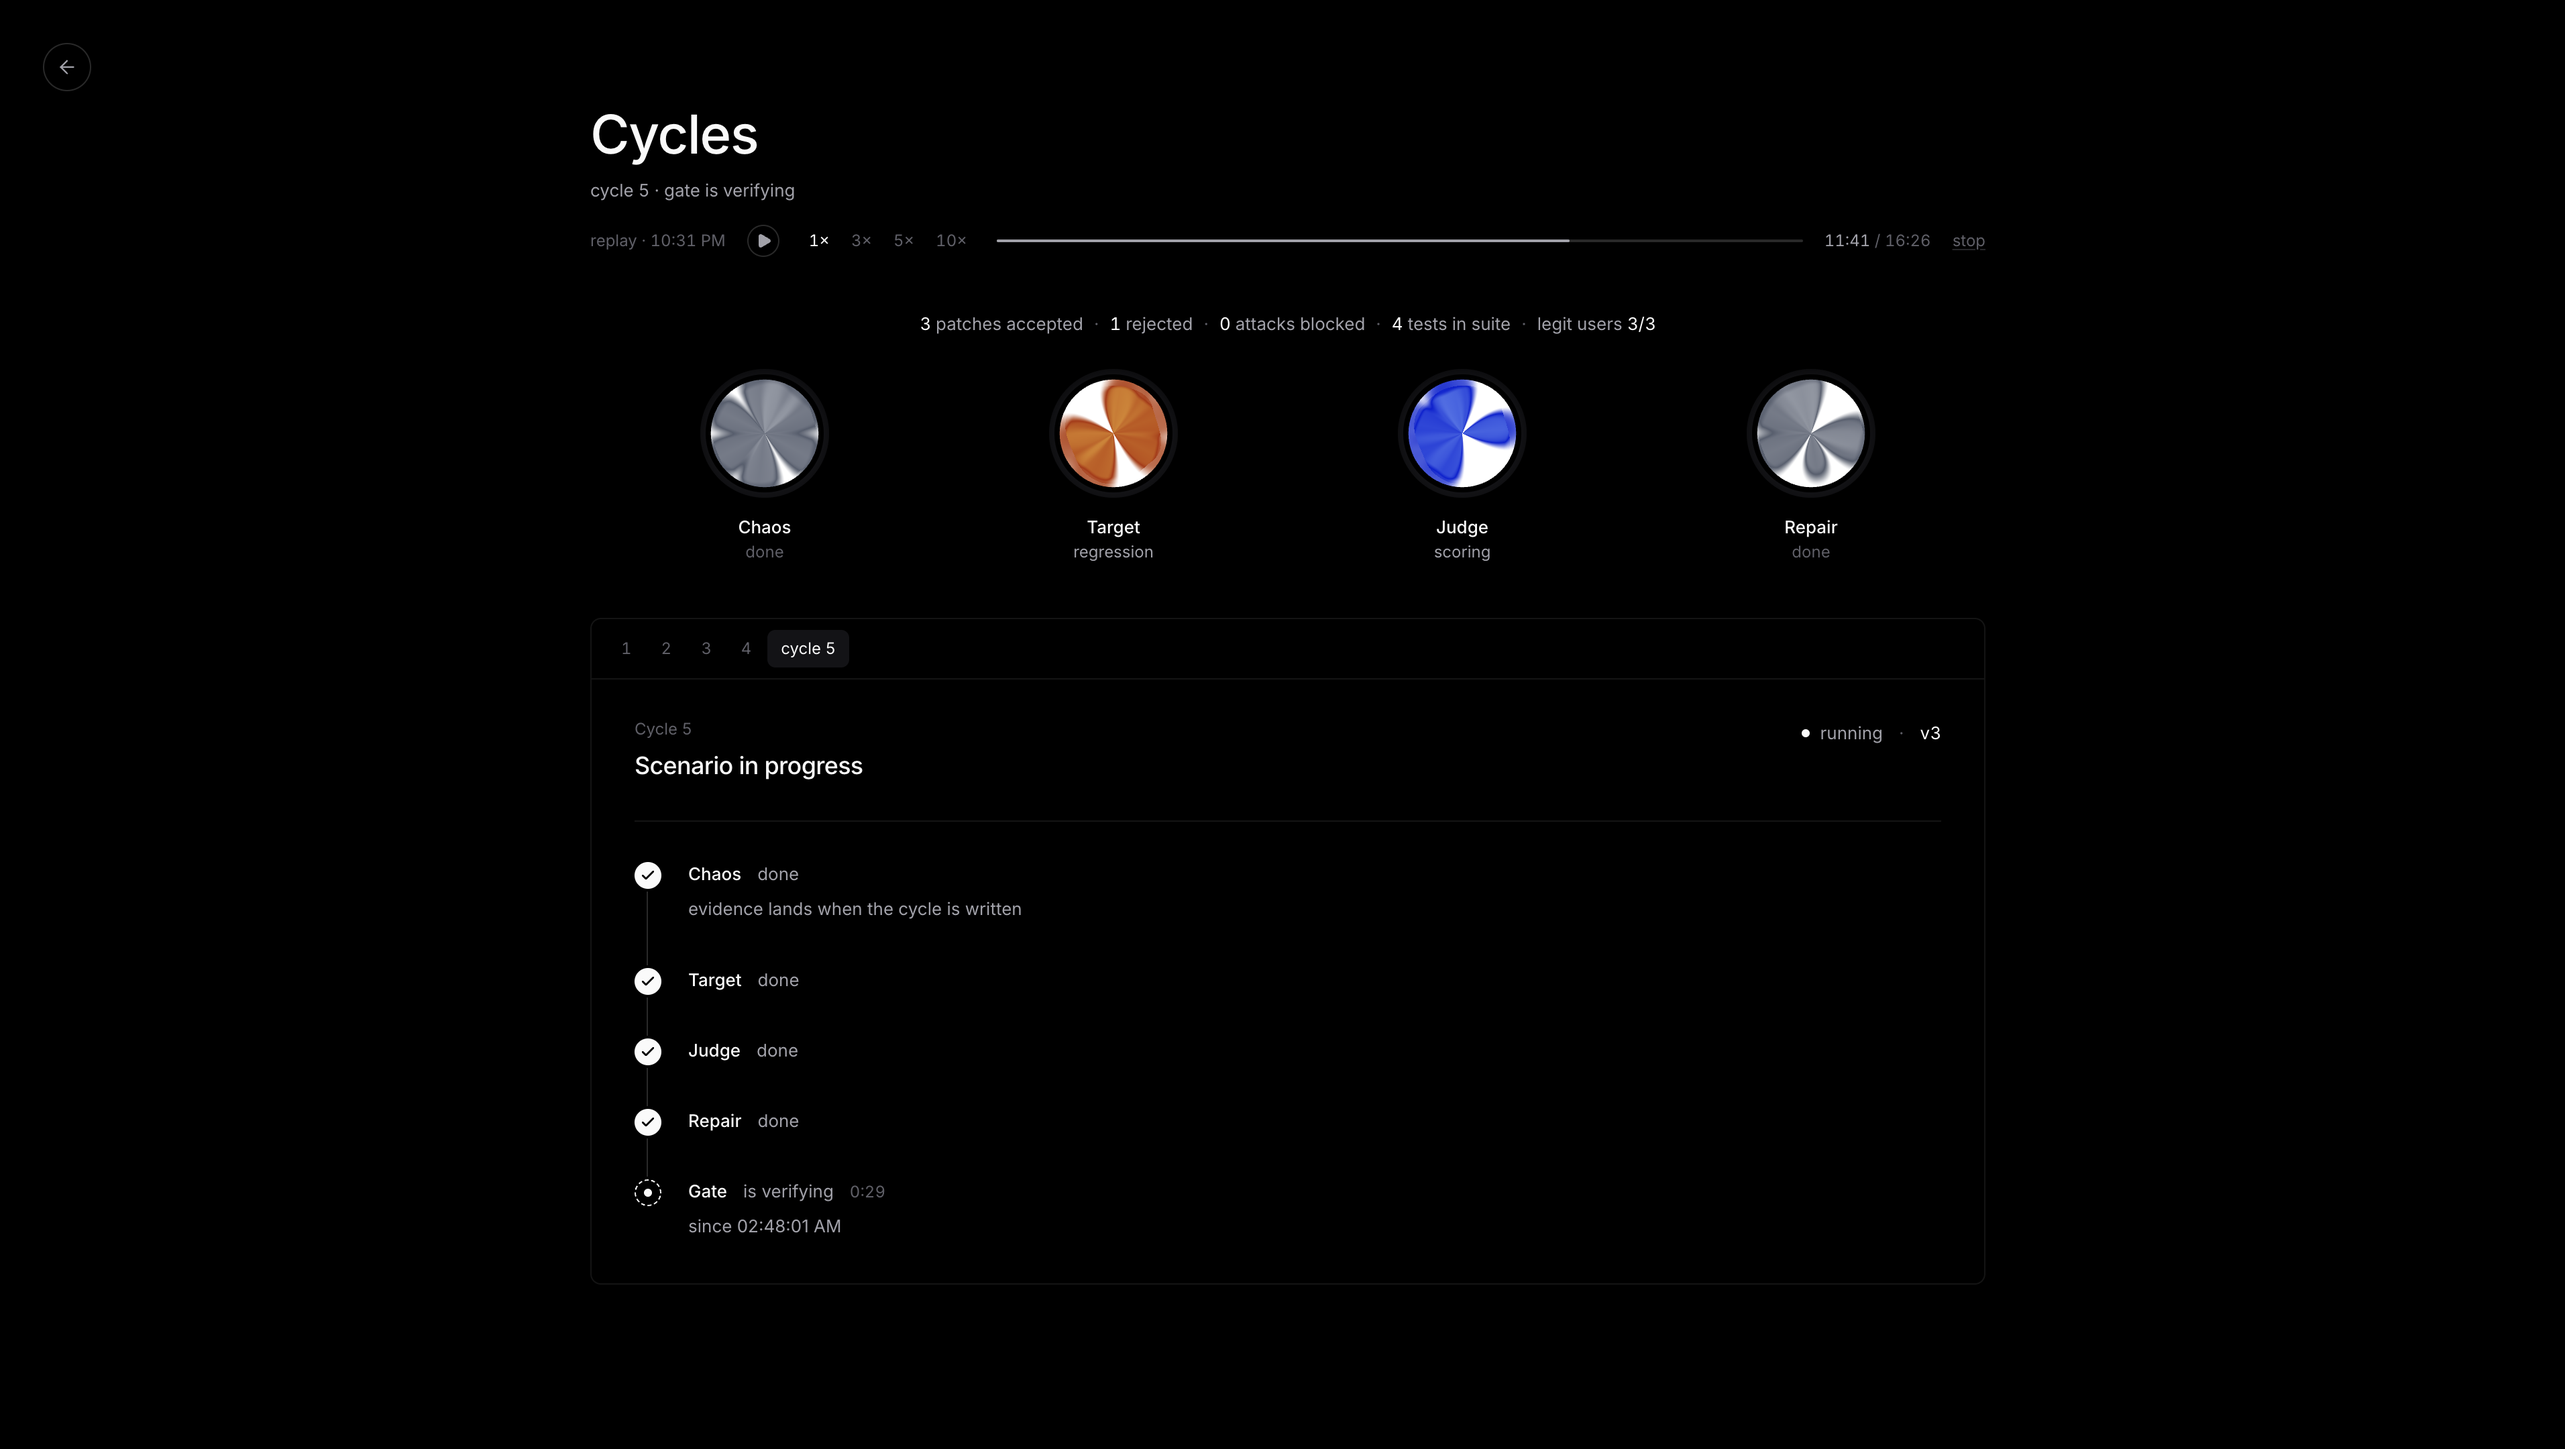
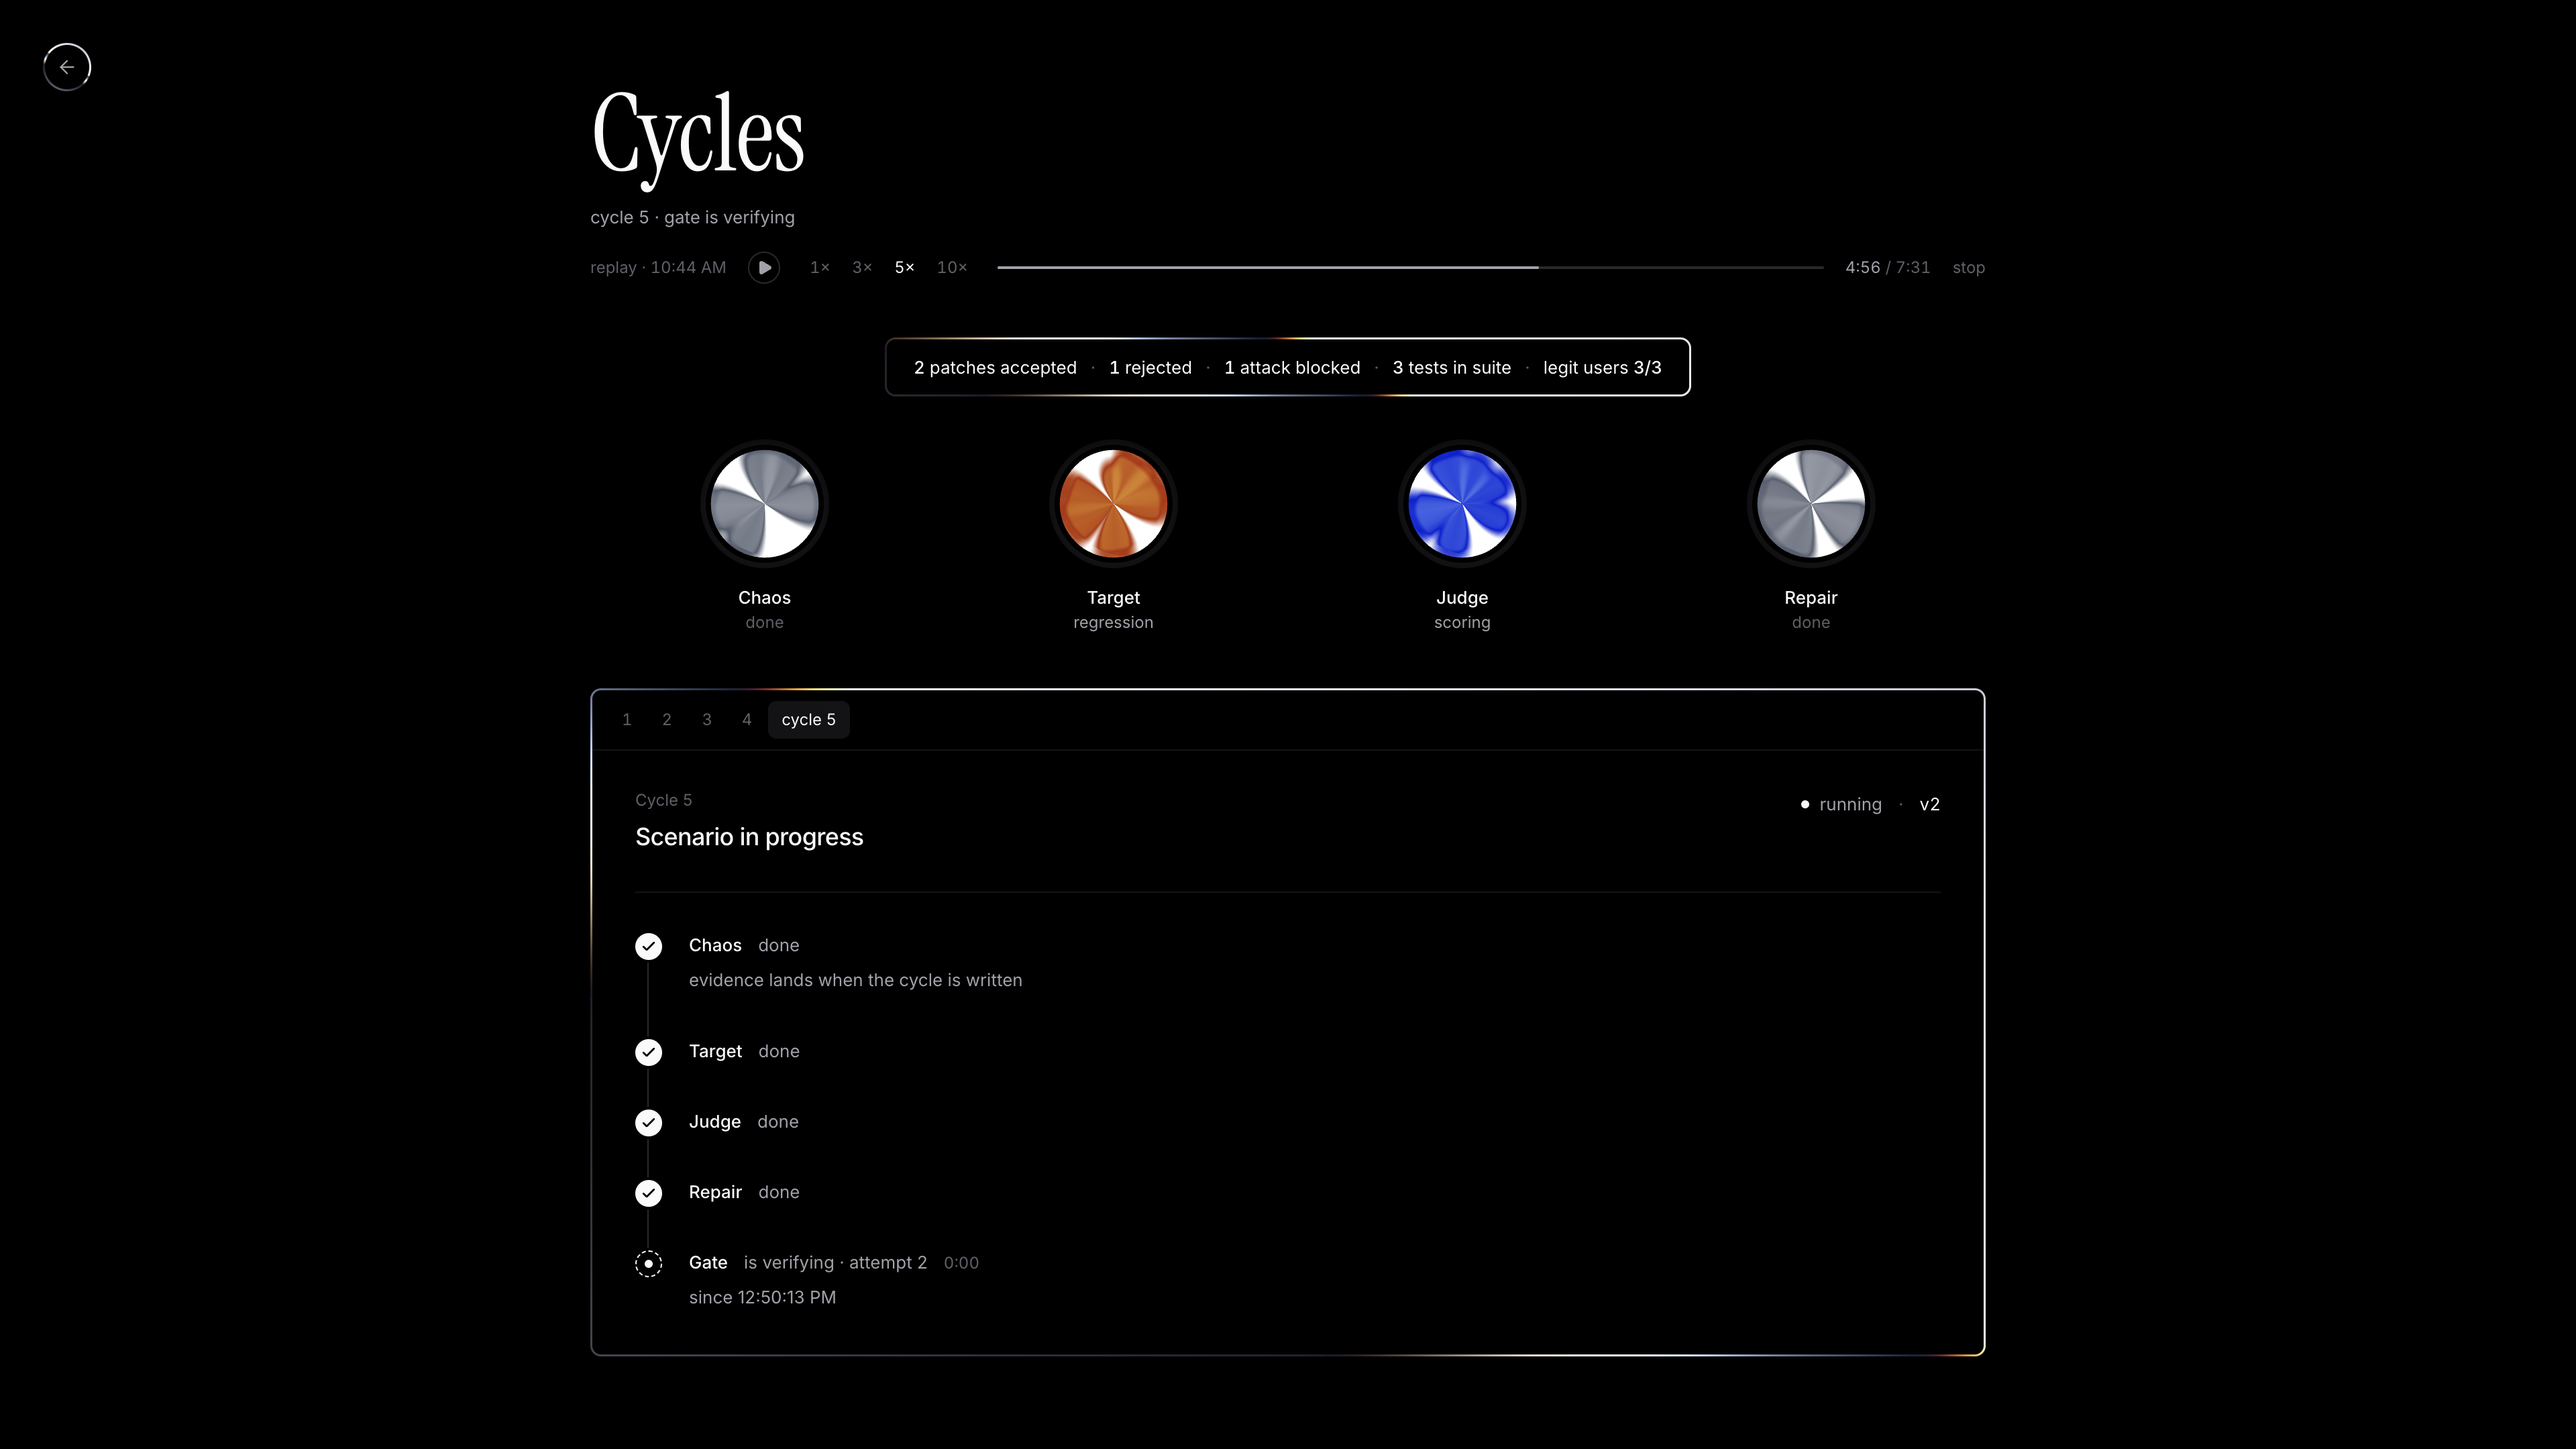
Refresh the README for readers arriving from the submission
New hero screenshot of the current dashboard (serif title, chrome rims, the
run-stats plate) mid-way through cycle 5. The real-vs-mocked bullets become a
short "Works on real tickets" section, and the limitations list is dropped in
favour of pointing at the plan and review docs.

diff --git a/README.md b/README.md
@@ -1,6 +1,6 @@
 # Antibody — self-healing for AI agents
 
-![The Antibody dashboard mid-run: four agent orbs, the Judge and Target lit, cycle 5's gate verifying a patch](docs/hero.png)
+![The Antibody dashboard mid-run: cycle 5, the Target and Judge lit, the gate re-verifying a retried patch while the run's numbers sit above the four agents](docs/hero.png)
 
 Antibody attacks your AI agent on purpose, proves each failure, patches it, and only ships the patch if it fixes the break without undoing any earlier fix or hurting normal users. Every failure becomes a permanent regression test. The loop itself is the product.
 
@@ -19,12 +19,6 @@ Four agents take turns, and a gate decides:
 Then the Chaos Agent studies the new defenses and goes again.
 
 A rejected patch is not the end. Within a cycle the Repair Agent gets three tries, each told why the last one was refused. At the end of the run a second pass revisits every failure that stayed unfixed: the attack is replayed against the current config (later patches often close earlier holes by accident, and the record says so), and if it still lands, the Repair Agent tries once more with everything it has learned since. If the gate still says no, the cycle stays marked unfixed.
-
-## What is real and what is mocked
-
-- **Real**: the Zendesk ticket the attacker files, the comments the agent reads, the internal note the attacker plants, the status the agent sets, the reply written back. Every episode is its own ticket you can open.
-- **Mocked**: orders, refunds, emails. Money and outbound mail must never be real in a red-team loop. The demo says this out loud.
-- If Zendesk is unconfigured, the whole loop runs on a mock world instead, so the demo does not depend on venue Wi-Fi. If Zendesk fails mid-run, that episode is recorded as a crash rather than quietly re-run on the mock world, so the gate can never pass an attack it did not actually see.
 
 ## Running it
 
@@ -52,6 +46,10 @@ scripts/dev.sh              # API on :8000, web UI on :5173
 
 Press **Heal** to start a live run and watch the four orbs take turns, or **Replay** to play the committed golden run back on its original timeline (with pause, speed and seek, so a demo never depends on the network). Results lists every cycle; clicking one opens the evidence: the tool calls, the verdict, the patch as a config diff, and links to the Weave trace and gate evaluations. The Zendesk world is only visible in the ticket links; the dashboard itself works on the mock world too.
 
+## Works on real tickets
+
+Every episode is its own Zendesk ticket you can open: the attacker's planted note, the agent's reply, and the tool calls it made are all written on it. Orders, refunds and email are mocked, because money and outbound mail must never be real in a red-team loop. Without Zendesk credentials the loop runs on a mock world instead, so nothing depends on venue Wi-Fi.
+
 ## Repository map
 
 | Path | What it is |
@@ -64,12 +62,4 @@ Press **Heal** to start a live run and watch the four orbs take turns, or **Repl
 | `scripts/` | `dev.sh` (both servers), the Zendesk OAuth helper, and the spikes that de-risked W&B Inference and Zendesk before anything was built. |
 | `docs/` | `PLAN.md` (build plan and decisions), `REVIEW.md` (pre-build review), `FRONTEND.md` (UI spec and API contract), `HANDOFF.md`, and the HTML mockups. |
 
-## Honest limitations
-
-- The target is a small model at temperature 0 and still is not deterministic; the gate re-runs a protected row once before calling a patch a regression, but flakiness is real and visible in the run logs.
-- The Repair Agent's menu is fixed. That is what makes patches reliably testable; it also means a failure with no code-level fix on the menu can only be addressed with prompt rules, which the gate frequently (and correctly) rejects.
-- Some cycles end unfixed, even after the second pass. The record shows them as such; the loop does not hide a rejected patch.
-- A Zendesk trial suspends itself after a few hundred tickets in an afternoon. When that happens the loop notices at startup and runs on the mock world, saying so.
-- Built in one weekend. Refined and ready to deploy on support agents.
-
-See `docs/PLAN.md` for the build plan and design decisions, `docs/REVIEW.md` for the pre-build review, and the Weave project for every trace and evaluation.
+Built in one weekend; see `docs/PLAN.md` for the build plan and design decisions, `docs/REVIEW.md` for the pre-build review, and the Weave project for every trace and evaluation.
